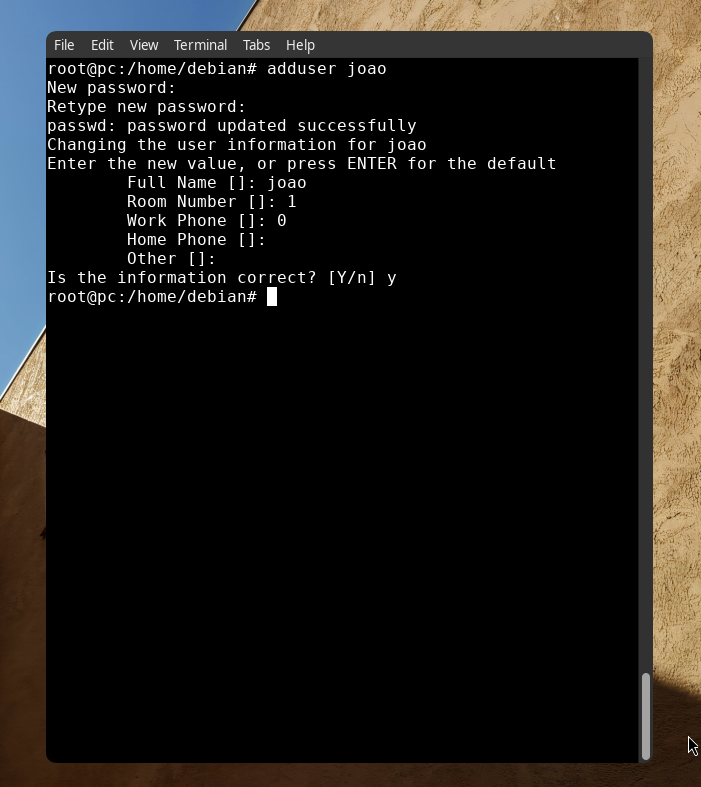
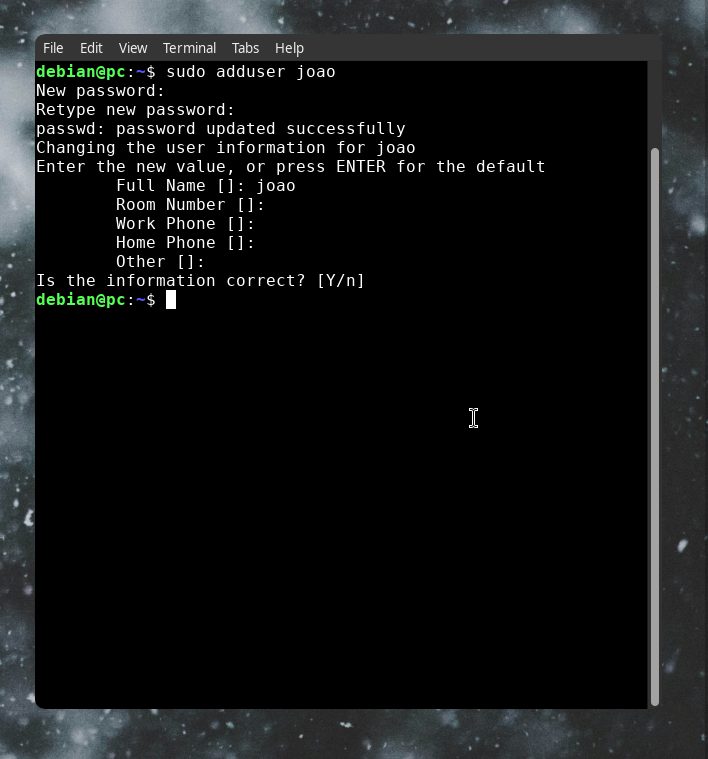
add new user to grupo sudoers

Changed region(s): [[0.0, 0.0, 1.0, 1.0], [0.6591, 0.5455, 0.689, 0.5758]]

diff --git a/01-user-management/README.md b/01-user-management/README.md
@@ -1,9 +1,9 @@
 #user management
 
-## cenario
+## Cenario
 novo usuario chamado **joao** ingressou no sistema e precisa de uma conta no servidor debian para acessar
 
-## objetivo
+## Objetivo
 Criar um usuario;
 Conceder privilegios administrativos ao novo usuario;
 Comfirmar que o usuario pertence ao grupo "sudo".
@@ -11,7 +11,7 @@ Comfirmar que o usuario pertence ao grupo "sudo".
 ## Ambiente
 PC Debian 13 i3wm
 Usuario: root
-## criar usuario
+## Criar usuario
 
 ```bash
 sudo adduser joao
@@ -24,24 +24,27 @@ sudo adduser joao
 ```bash
 sudo usermod -aG sudo joao
 ```
+## Resultado
+![Permissao concedida ao usuario](Images/02-user-sudo.png)
+
 ## Verificar usuario
 
 ```bash
 id joao
 ```
 
-Resultado;
-![Informacoes do usuario](Images/02-id-user.png)
+## Resultado
+![Informacoes do usuario](Images/03-id-user.png)
 
-## Verificando grupos
+## Verificando grupos 
 
 ```bash
 groups joao
 ```
 
-Resultado;
+## Resultado
 
-![Grupos](Images/03-groups.png)
+![Grupos](Images/04-groups.png)
 
 ## O que aprendi
 Criar usuario;